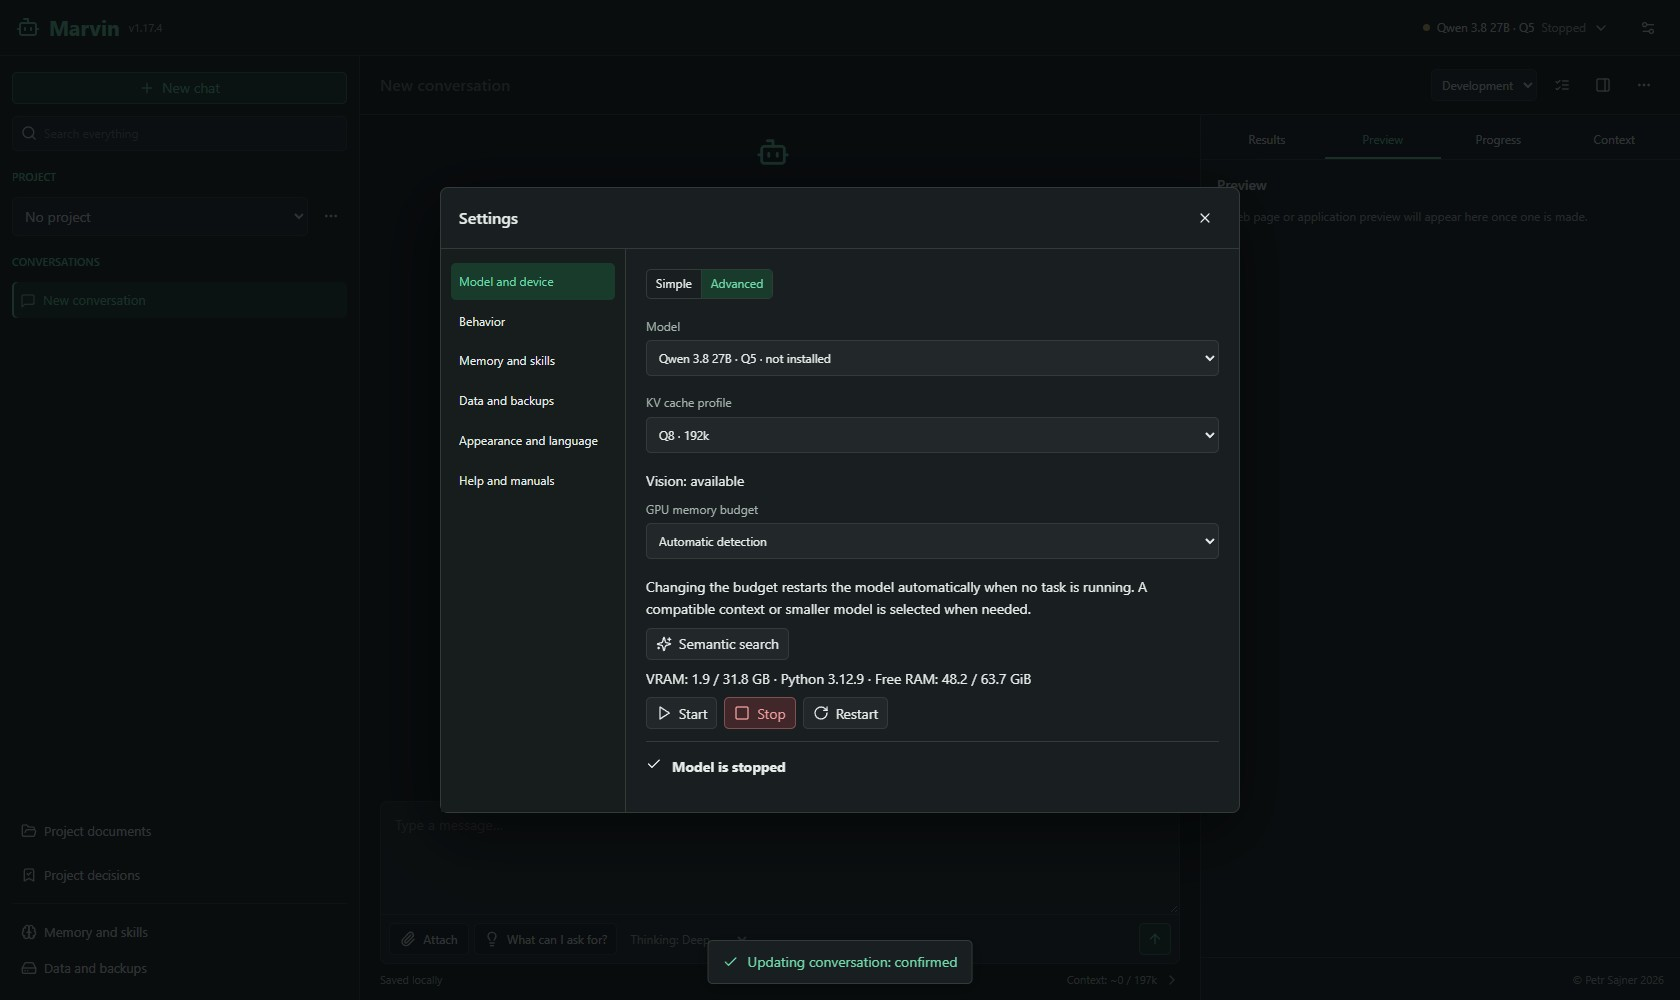
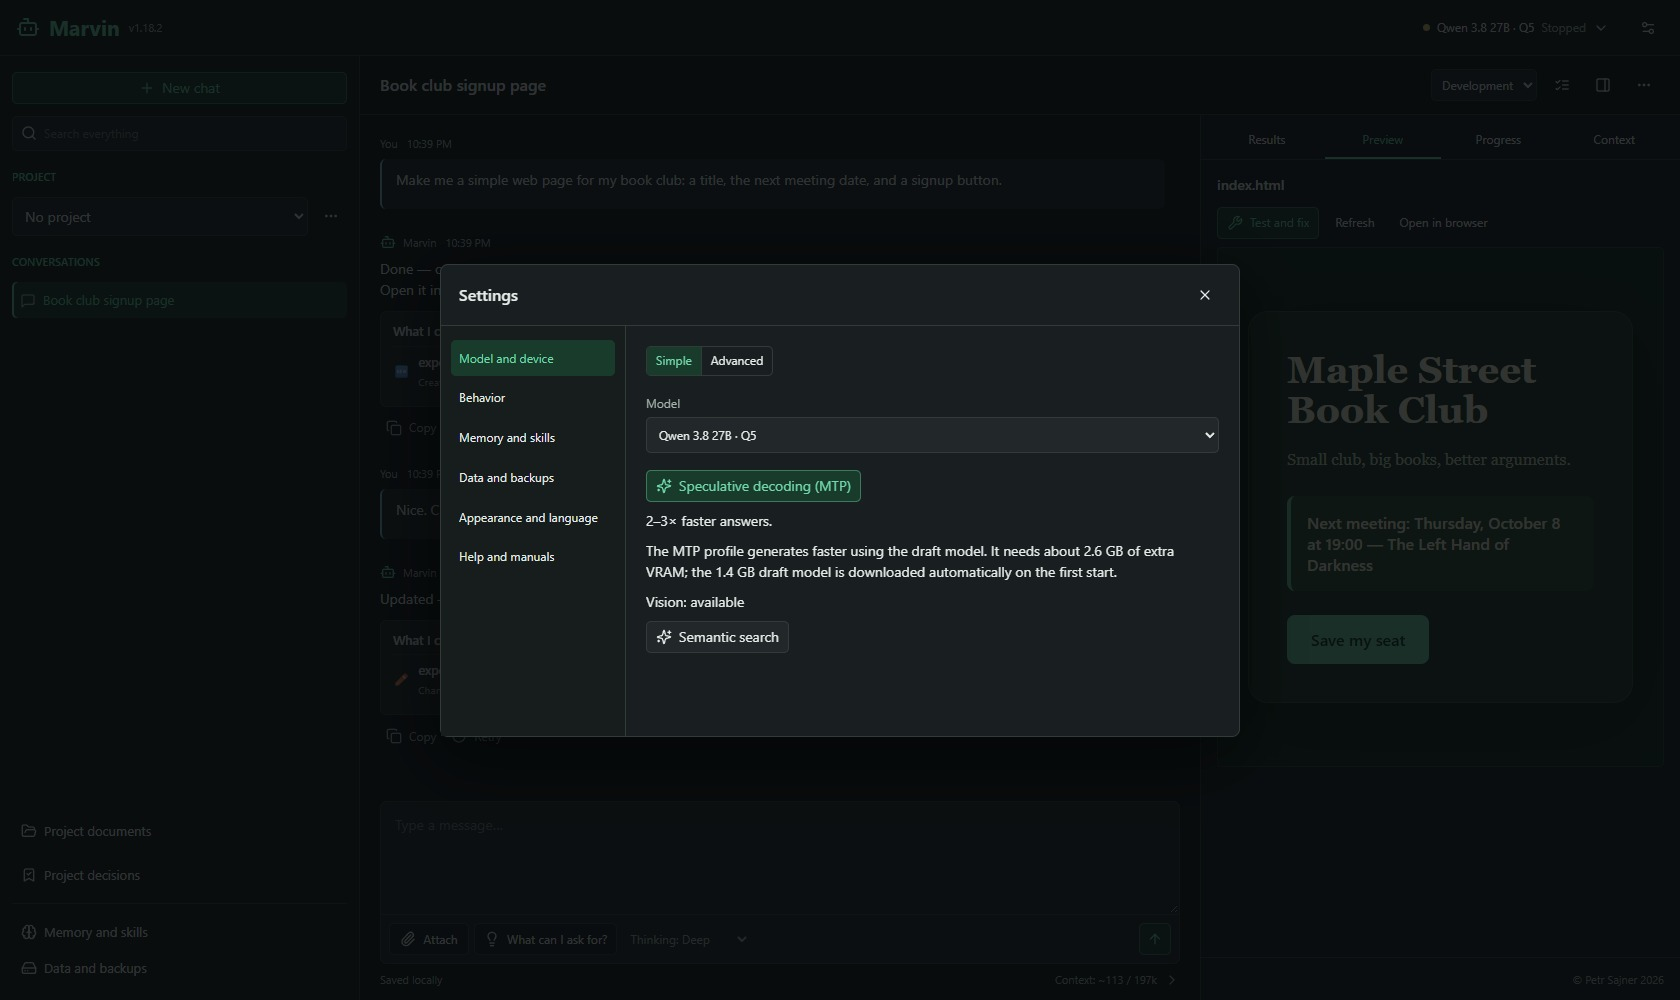
Prepare the illustrated 1.18.2 release and record 1.18.0 withdrawal

diff --git a/docs/distribution/RELEASE-NOTES-1.18.2.md b/docs/distribution/RELEASE-NOTES-1.18.2.md
@@ -1,45 +1,166 @@
-# Marvin 1.18.2 - startup, MTP and desktop fixes
+# Marvin 1.18.2 - a complete local AI workstation
 
-This release corrects the black startup window in 1.18.0 and fixes profile
-selection during memory recovery. It also prevents a hidden graphics helper
-from appearing beside the application in the taskbar.
+**Marvin is built around a top-tier local AI engine:** measured GPU profiles
+with an honest recovery ladder, MTP speculative decoding, durable jobs that
+survive interruptions, live steering that protects the prompt cache, a per-file
+change journal with one-click restore, document intelligence for Word, PDF and
+Excel, a research ledger with citations, memory and decisions that follow you
+across chats, dictation, and an offline installer with a verified backup.
 
-![Marvin workspace](https://raw.githubusercontent.com/petrsajner/marvin/main/docs/images/Marvin-Workspace.jpg)
+**That engine comes with the tools to finish real work.** One Windows workspace
+brings together **Discussion → Research → Writing → Development → Computer**.
+Read a document, research a question, write a finished result, build an
+application or work with the screen, while keeping the conversation, files,
+progress and results together.
 
-## Changes
+This release carries forward the complete workstation described in **1.17.4**
+and adds all changes through **1.18.2**. **Upgrade 1.18.0 installations to this
+version:** it corrects the black startup window and the recovery issues found
+during the review of that update.
 
-- **The workspace opens safely.** It shows its loading screen while application
-  state is arriving, then loads the selected conversation. A missing initial
-  state no longer crashes the interface.
-- **Profile changes apply to the intended task.** Memory recovery continues the
-  current task with its captured selection. A different selection made during
-  that task is applied to the next task.
-- **New profile requests replace old recovery intent.** The model controller
-  records the new selection correctly, including when it can reuse an already
-  running matching profile without restarting.
-- **Startup focuses the main window.** The launcher uses the created WebView's
-  native handle. It no longer restores hidden graphics helpers or other windows
-  whose titles happen to contain Marvin.
+![Marvin 1.18.2 workspace](https://raw.githubusercontent.com/petrsajner/marvin/v1.18.2/docs/images/Marvin-Workspace.jpg)
 
-## Installation
+## See the work, trust the changes, keep control
 
-Upgrade installations running 1.18.0 to 1.18.2. Existing chats and model files
-are retained.
+### Know what changed
 
-- **Full:** private Python 3.12, locked Python packages, llama.cpp/CUDA libraries
-  and offline WebView2 setup. Model weights are downloaded separately or restored
-  from an existing offline backup.
-- **Minimal:** application update for a prepared environment; a fresh installation
-  requires separately installed 64-bit Python 3.12 and environment setup.
+Finished work can include a **What I changed** card: a plain sentence for each
+file, a **Restore** button, and the technical diff when you want it. Restore
+points and the task journal keep file recovery close to the work. Destructive
+workspace actions such as reverting a task use the application's confirmation
+dialog.
 
-English and Czech manuals, the workspace preview and `SHA256SUMS.txt` are included
-with the release assets.
+![A file change card](https://raw.githubusercontent.com/petrsajner/marvin/v1.18.2/docs/images/Marvin-ChangeCard.jpg)
 
-## Validation
+### See the result while Marvin builds it
 
-371 unittest tests and 361 core checks passed, together with the production
-frontend build and browser startup/MTP checks. A native WinForms probe verified
-that the main window is restored while matching-title helper windows stay hidden.
-The Full runtime passed its isolated private-Python and DLL checks. The updated
-offline package restored locked dependencies into a fresh environment and served
-the application API and compiled UI.
+The **Preview** panel shows a generated web page or application live and
+refreshes as the work changes. A background process that announces its address
+gets a **The app is running at …** card with Open and Stop controls.
+
+**Test and fix** completes the loop: open the application, exercise its main
+controls, inspect console and network errors, attempt repairs and verify them,
+then present a test report with pass/fail checks. The protocol allows up to
+three repair rounds.
+
+![Live application preview](https://raw.githubusercontent.com/petrsajner/marvin/v1.18.2/docs/images/Marvin-Preview.jpg)
+
+### Start with a useful task
+
+An empty conversation offers **ready tasks** for documents, pictures, research,
+programming and exporting a result. The capability catalogue is beside Attach.
+Dictation puts spoken words in the composer. **Plan first** lets you ask for a
+plan and approve it before the first file change. **Simple** settings hold the
+everyday controls; **Advanced** adds the technical ones.
+
+![Ready tasks in a new conversation](https://raw.githubusercontent.com/petrsajner/marvin/v1.18.2/docs/images/Marvin-Welcome.jpg)
+
+## Everything added since 1.17.4
+
+### Faster answers, with an MTP switch you can see
+
+**Speculative decoding (MTP)** now has a dedicated switch in **both Simple and
+Advanced settings**. The KV cache menu lists the base profiles; the switch
+adds or removes the matching MTP variant. Profiles without a supported variant
+show that MTP is unavailable.
+
+The small draft model is downloaded and SHA-256 verified on first use. On the
+measured RTX 5090 cases, MTP delivered **2.2–2.9× faster structured output** and
+**1.6–1.8× faster natural-text decoding**, with roughly **1.9–2.9 GiB** of extra
+GPU allocation depending on the profile. These are measured cases, not a
+guarantee for every task or machine. MTP remains opt-in.
+
+![The visible MTP switch](https://raw.githubusercontent.com/petrsajner/marvin/v1.18.2/docs/images/Marvin-MTP.jpg)
+
+[Measurement details and supported profiles](https://github.com/petrsajner/marvin/blob/v1.18.2/docs/design/mtp-profiles.md)
+
+### A memory event no longer changes your selection
+
+- The selected profile and the profile that actually runs are recorded
+  separately. Recovery can drop the draft or reduce context while keeping
+  your original choice for a later model start.
+- If recovery turns MTP off, the activity history explains it and offers
+  **Turn MTP back on**. With a task running, that selection applies to the next
+  task; with no task running, the model can start with it immediately.
+- Following tasks continue with the working recovery profile instead of
+  repeatedly restarting just because it differs from the original request.
+- Changing the GPU budget and switching back recalls the requested profile.
+  An explicit profile selection in the same settings update takes priority.
+
+### Profile changes during a task are respected
+
+The review also found two edge cases in the first MTP update. Recovery could
+mistake a selection changed during the task for the request it was already
+serving; a new model start could retain an obsolete request marker.
+
+**1.18.2 fixes both.** Recovery follows the active task's captured request, the
+next task applies your new choice, and an explicit model request records the
+new selection correctly. A matching running profile can still be reused without
+an unnecessary restart. Invalid model requests also reach a failure state
+instead of leaving startup permanently in progress.
+
+### The workspace opens reliably
+
+The black window in 1.18.0 came from reading application state before it had
+arrived. The interface now renders its loading screen safely, opens the selected
+conversation when ready, and can show an API error instead of crashing to an
+empty window. Browser checks cover a delayed response, an API failure and a
+successful reload.
+
+### One application window in the taskbar
+
+Startup used to restore every desktop window whose title contained Marvin.
+That could expose the normally hidden **GDI+ Window** and raise unrelated
+windows. The launcher now focuses the exact WebView window it created, using
+its native Windows handle. The hidden helper stays hidden.
+
+### Distribution and offline recovery
+
+- Release staging and Full-runtime checks work on filesystems such as exFAT
+  that do not support hard links.
+- Application, installer, npm version metadata and manual versions agree on
+  **1.18.2**.
+- The offline package is refreshed as **Marvin-Offline-Backup-1.18.2** with the
+  new Full installer and both manuals. The old 1.18.0 installer was removed.
+- The recorded backup path now follows the renamed folder, including the
+  installed application's path after the project moved to a different drive.
+- All **97 retained payload files** matched their previous records, sizes and
+  modification times. Updated-file hashes were checked, and the dependency
+  archive successfully restored into a fresh environment.
+- The gallery was refreshed with English demonstration content from 1.18.2.
+
+<details>
+<summary><strong>Simple and Advanced settings</strong></summary>
+
+![Simple settings](https://raw.githubusercontent.com/petrsajner/marvin/v1.18.2/docs/images/Marvin-Settings.jpg)
+
+![Advanced settings](https://raw.githubusercontent.com/petrsajner/marvin/v1.18.2/docs/images/Marvin-SettingsAdvanced.jpg)
+
+</details>
+
+## Installing
+
+- **Full - recommended for a new PC:** private Python 3.12, locked Python
+  packages, llama.cpp/CUDA libraries and offline WebView2 setup. Model weights
+  are downloaded separately or restored from an offline backup.
+- **Minimal:** application update for an existing prepared environment. A fresh
+  installation requires separately installed 64-bit Python 3.12 and environment
+  setup.
+- Installer upgrades preserve existing chats, projects, models and preferences.
+
+The release includes both installers, **English and Czech manuals**, the
+workspace preview and **SHA256SUMS.txt**. The gallery above shows demonstration
+content in the actual application interface.
+
+## Verification
+
+**371 unittest tests and 361 core checks passed**, together with localization
+checks and the production frontend build. Browser checks cover startup and the
+MTP controls. A probe with real WinForms windows verified that only the main
+window is restored while matching-title helpers remain hidden.
+
+The Full runtime passed its isolated private-Python, locked-dependency and DLL
+checks. The refreshed offline package restored dependencies into a fresh venv
+and served the application API and compiled UI. An actual Minimal upgrade
+completed successfully; all **15 original conversation files** kept their
+pre-upgrade SHA-256 values.

diff --git a/docs/distribution/RELEASE-1.18.2.md b/docs/distribution/RELEASE-1.18.2.md
@@ -1,4 +1,4 @@
-# Local corrective build: Marvin 1.18.2
+# Release record: Marvin 1.18.2
 
 30 September 2026. Contains the startup and MTP corrections first installed as
 1.18.1, plus the desktop focus correction identified during the owner's review.
@@ -31,8 +31,10 @@ The detailed baseline comparison and evidence are in
   The installed API reported 1.18.2 and returned the original chat list.
 - English/Czech manual versions match 1.18.2 and their covers were rendered and inspected.
 
-The local assets are staged in `dist/release-1.18.2/` with the established public
-filenames. Source/installers have not been published to GitHub in this task.
+The assets are staged in `dist/release-1.18.2/` with the established public
+filenames. The exact hashes and download URLs are recorded in
+`release-1.18.2.json`. The application build commit is `592dcde`; the release
+description and refreshed screenshots are documentation changes.
 
 | File | Bytes | SHA-256 |
 |---|---:|---|
@@ -40,7 +42,7 @@ filenames. Source/installers have not been published to GitHub in this task.
[5 lines of base64/hex data omitted]
 
 ## Offline package refresh
 
@@ -61,5 +63,11 @@ restoration into a fresh venv, all locked versions, application API, compiled UI
 delivery and an empty personal-data store. This is a fresh-environment check,
 not a clean Windows VM or an additional Full installer execution.
 
-Public release notes are prepared in `RELEASE-NOTES-1.18.2.md`. GitHub publication
-and withdrawal of 1.18.0 are reserved for the owner's subsequent request.
+The public description in `RELEASE-NOTES-1.18.2.md` carries forward the workstation
+overview from 1.17.4 and adds all changes through 1.18.2. Seven screenshots were
+captured from the production frontend with disposable English demonstration
+data, including the visible MTP switch. Screenshot rendering produced no
+JavaScript errors. Image links are pinned to the 1.18.2 Git tag.
+
+The broken GitHub release 1.18.0 was removed on 30 September 2026, with its
+historical source tag retained. This release is its corrected replacement.

diff --git a/docs/distribution/RELEASE-1.18.0.md b/docs/distribution/RELEASE-1.18.0.md
@@ -1,5 +1,10 @@
 # Release record: Marvin 1.18.0
 
+**Withdrawn on 30 September 2026.** The GitHub release and its downloadable assets
+were removed at the owner's request after the startup regression was confirmed.
+The corrected build is [1.18.2](RELEASE-1.18.2.md). The historical Git tag remains
+available for source comparison.
+
 30 September 2026. Public release of the speculative-decoding selection fix and
 the visible Speculative decoding toggle — the fix for the 2026-09-26 incident
 where a graphics-memory event turned MTP off and it stayed off.
